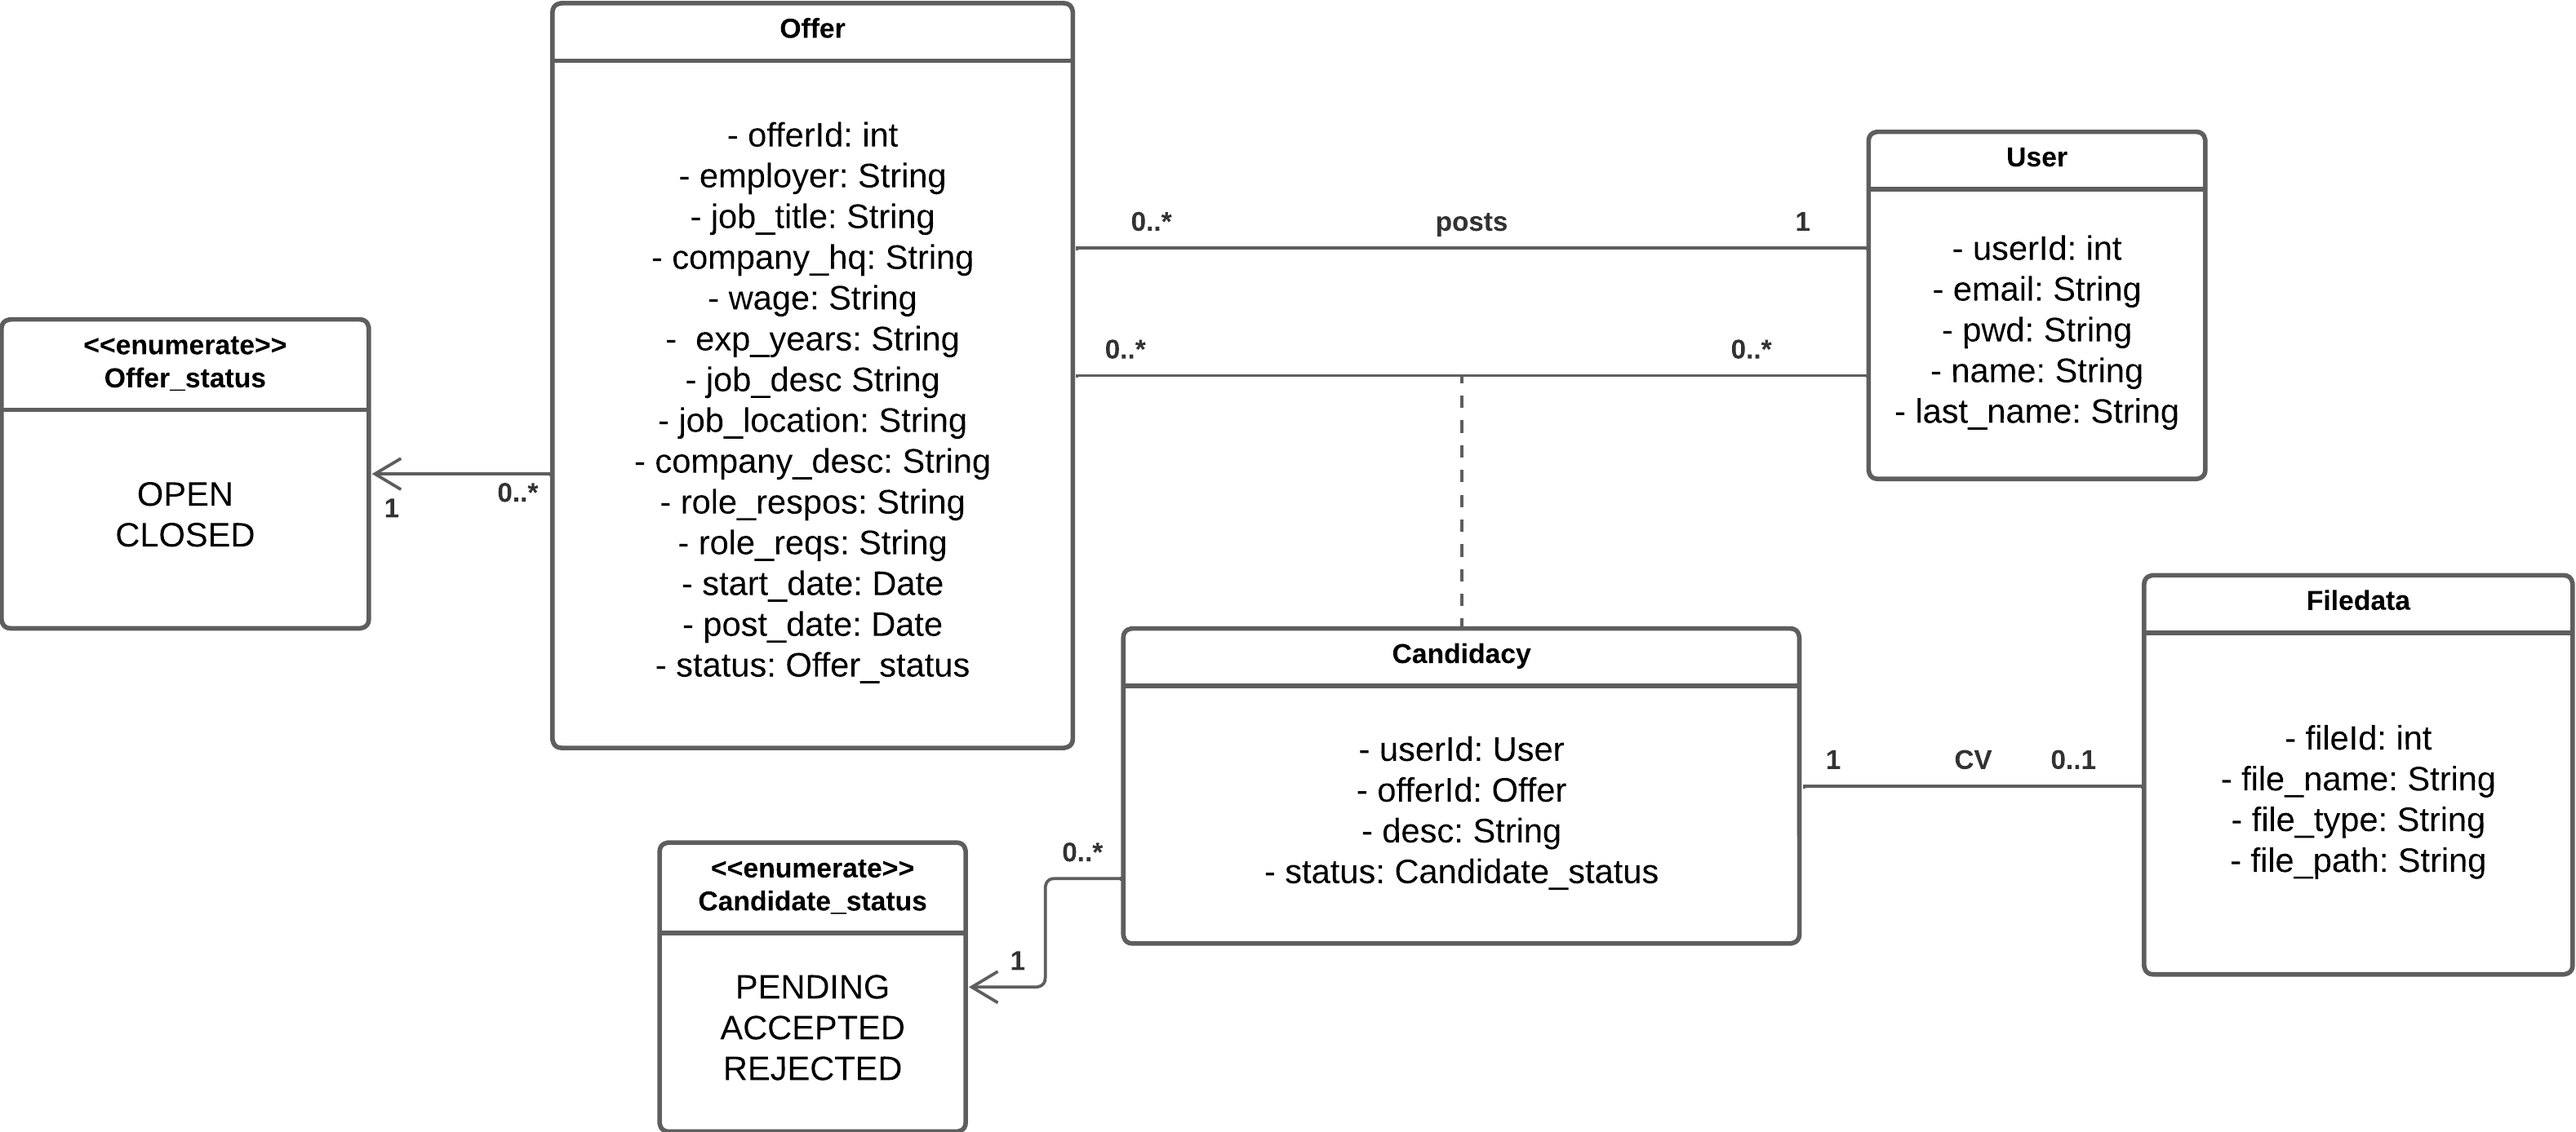
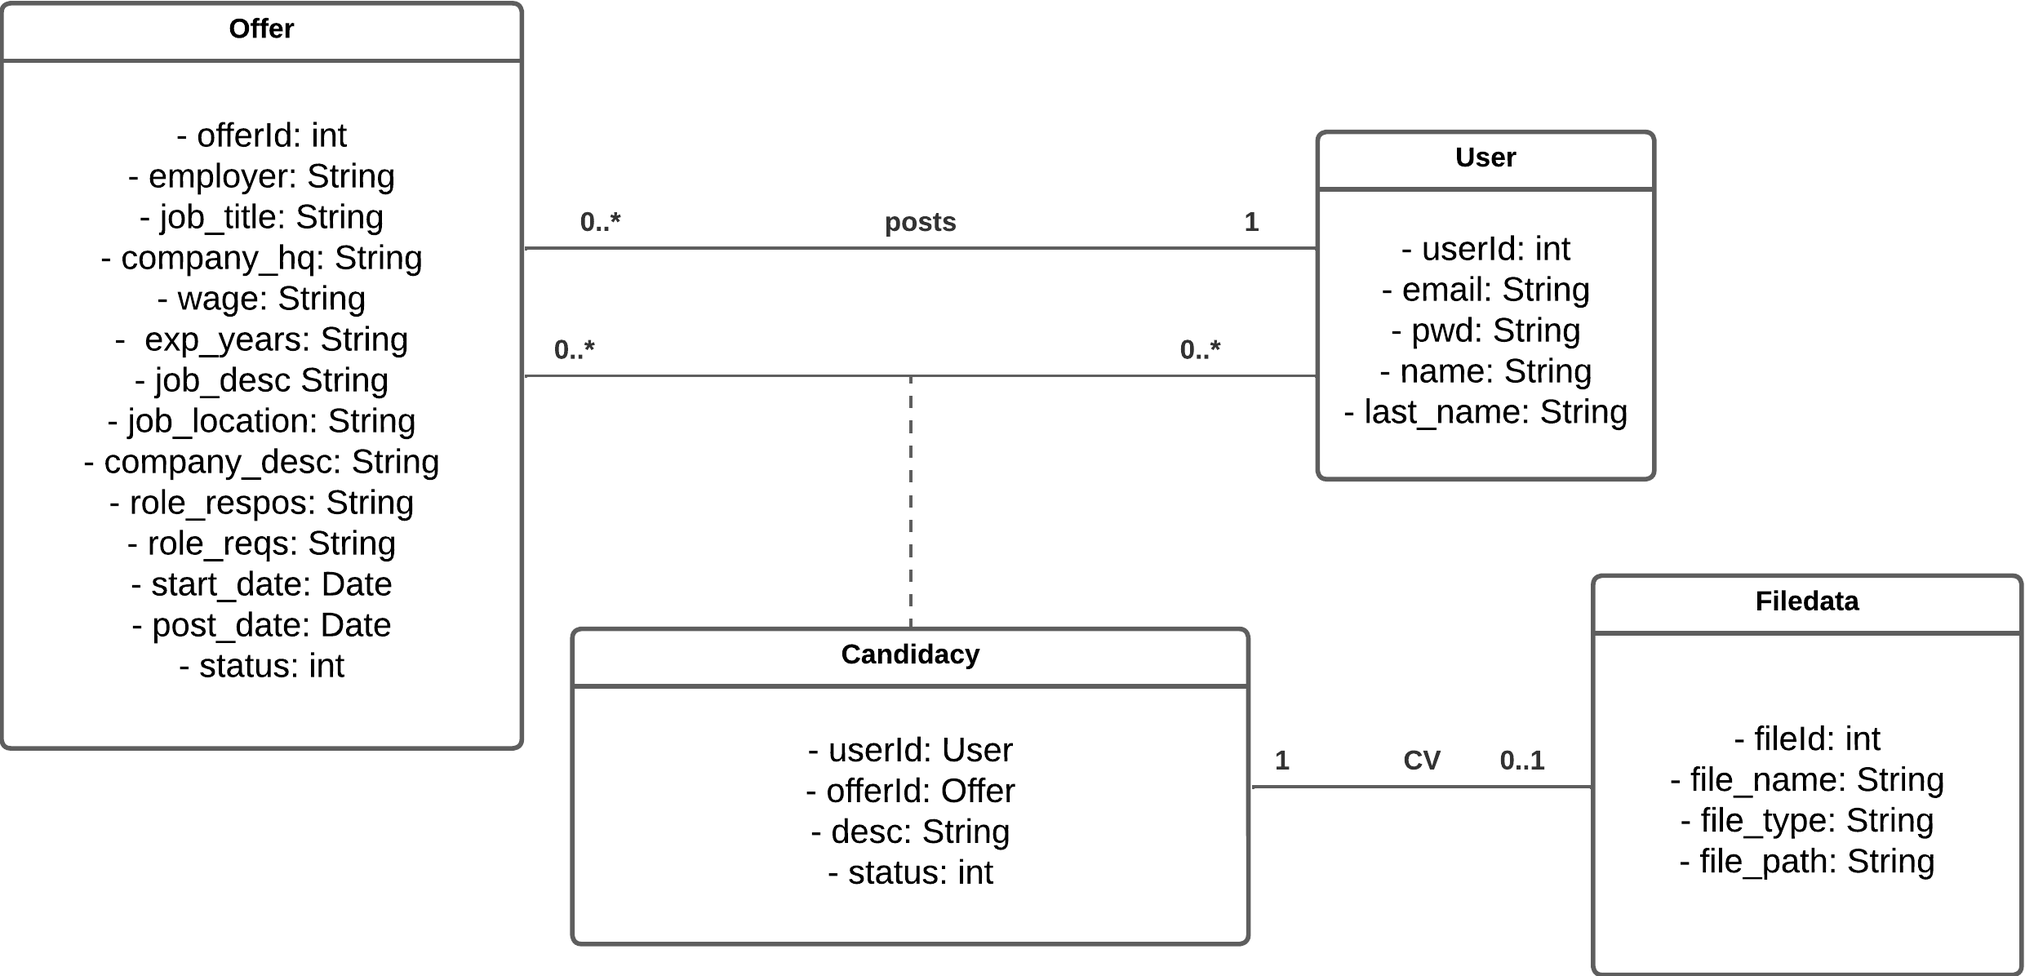
Update class diagram, fix some css and html in my-offers

diff --git a/frontend/src/app/components/my-offers/my-offers.component.html b/frontend/src/app/components/my-offers/my-offers.component.html
@@ -6,9 +6,9 @@
         <p>{{ job.poster.name }} {{ job.poster.lastName }} :</p>
         <h5>{{ job.title }}</h5>
         <span>
-            <svg xmlns="http://www.w3.org/2000/svg" width="16" height="16" fill="currentColor" class="bi bi-person" viewBox="0 0 16 16" style="color:#8024db">
-                <path d="M8 8a3 3 0 1 0 0-6 3 3 0 0 0 0 6Zm2-3a2 2 0 1 1-4 0 2 2 0 0 1 4 0Zm4 8c0 1-1 1-1 1H3s-1 0-1-1 1-4 6-4 6 3 6 4Zm-1-.004c-.001-.246-.154-.986-.832-1.664C11.516 10.68 10.289 10 8 10c-2.29 0-3.516.68-4.168 1.332-.678.678-.83 1.418-.832 1.664h10Z"/>
-            </svg>
+          <svg *ngIf="job.jobLocation" xmlns="http://www.w3.org/2000/svg" width="16" height="16" fill="currentColor" class="bi bi-geo-alt-fill special-color" viewBox="0 0 16 16">
+            <path d="M8 16s6-5.686 6-10A6 6 0 0 0 2 6c0 4.314 6 10 6 10m0-7a3 3 0 1 1 0-6 3 3 0 0 1 0 6"/>
+          </svg>
             {{ job.jobLocation}}
         </span>
         <p><b>Job Description: <br/></b>{{ job.jobDesc }}</p>
@@ -101,20 +101,14 @@
                           </div>
                           <div class="input-group mb-3" style="width:150px;">
                               <div class="form-group">
-                                  <label class="label-elem" for="wageInput">Wage <span style="color: red">*</span></label>
-                                  <input type="text" class="form-control input-elem" aria-label="wage" aria-describedby="basic-addon1" id="wageInput" name="wage" #wage="ngModel" [(ngModel)]="form.wage" required>
+                                  <label class="label-elem" for="wageInput">Wage</label>
+                                  <input type="text" class="form-control input-elem" aria-label="wage" aria-describedby="basic-addon1" id="wageInput" name="wage" #wage="ngModel" [(ngModel)]="form.wage">
                               </div>
-                              <div *ngIf="wage.errors && f.submitted" style="color: red;">
-                                  Wage obligatoire!
-                                </div>
                           </div>
                           <div class="input-group mb-3" style="width:150px;">
                             <div class="form-group">
-                                <label class="label-elem" for="expInput">Experience in years <span style="color: red">*</span></label>
-                                <input type="text" class="form-control input-elem" aria-label="exp" aria-describedby="basic-addon1" id="expInput" name="exp" #exp="ngModel" [(ngModel)]="form.expYears" required>
-                                <div *ngIf="exp.errors && f.submitted" style="color: red;">
-                                    Experience obligatoire!
-                                  </div>
+                                <label class="label-elem" for="expInput">Experience in years</label>
+                                <input type="text" class="form-control input-elem" aria-label="exp" aria-describedby="basic-addon1" id="expInput" name="exp" #exp="ngModel" [(ngModel)]="form.expYears">
                             </div>
                         </div>
                       </div>
@@ -130,11 +124,9 @@
                           </div>
                           <div class="input-group mb-3" style="width:200px;">
                             <div class="form-group">
-                                <label class="label-elem" for="jobLocationInput">Job location <span style="color: red">*</span></label>
-                                <input type="text" class="form-control input-elem" aria-label="jobLocation" aria-describedby="basic-addon1" id="jobLocationInput" name="jobLocation" #joblocation="ngModel" [(ngModel)]="form.jobLocation" required>
-                                <div *ngIf="joblocation.errors && f.submitted" style="color: red;">
-                                    Job Location obligatoire!
-                                  </div>
+                                <label class="label-elem" for="jobLocationInput">Job location</label>
+                                <input type="text" class="form-control input-elem" aria-label="jobLocation" aria-describedby="basic-addon1" id="jobLocationInput" name="jobLocation" #joblocation="ngModel" [(ngModel)]="form.jobLocation">
+                                
                             </div>
                           </div>
                           <div class="input-group mb-3" style="width:200px;">

diff --git a/frontend/src/app/services/global.service.ts b/frontend/src/app/services/global.service.ts
@@ -20,5 +20,12 @@ export class GlobalService {
     "name": "Bouchra",
     "lastName": "El Asri"
 };
+// {
+//   "id": 4,
+//   "email": "hamlaoui@gmail.com",
+//   "pwd": "hamlaoui32",
+//   "name": "Mohammed",
+//   "lastName": "Hamlaoui"
+// };
   constructor() { }
 }

diff --git a/frontend/src/app/components/jobs/jobs.component.css b/frontend/src/app/components/jobs/jobs.component.css
@@ -4,3 +4,8 @@
     padding: 10px;
     margin-top: 20px;
 }
+
+.job-list {
+    max-height: 100%; /* Set the maximum height for the container */
+    overflow-y: auto; /* Enable vertical scrolling */
+  }
